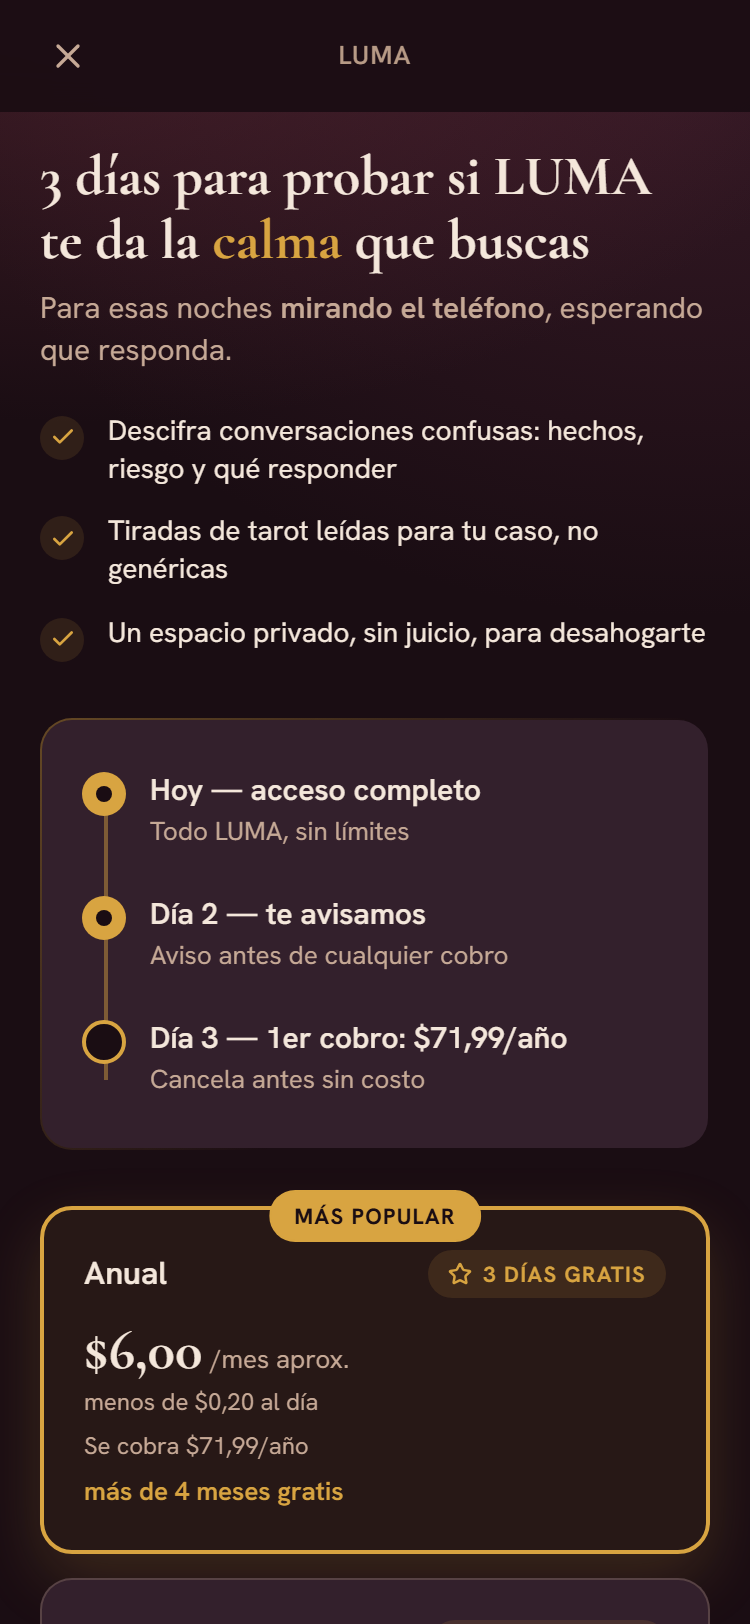
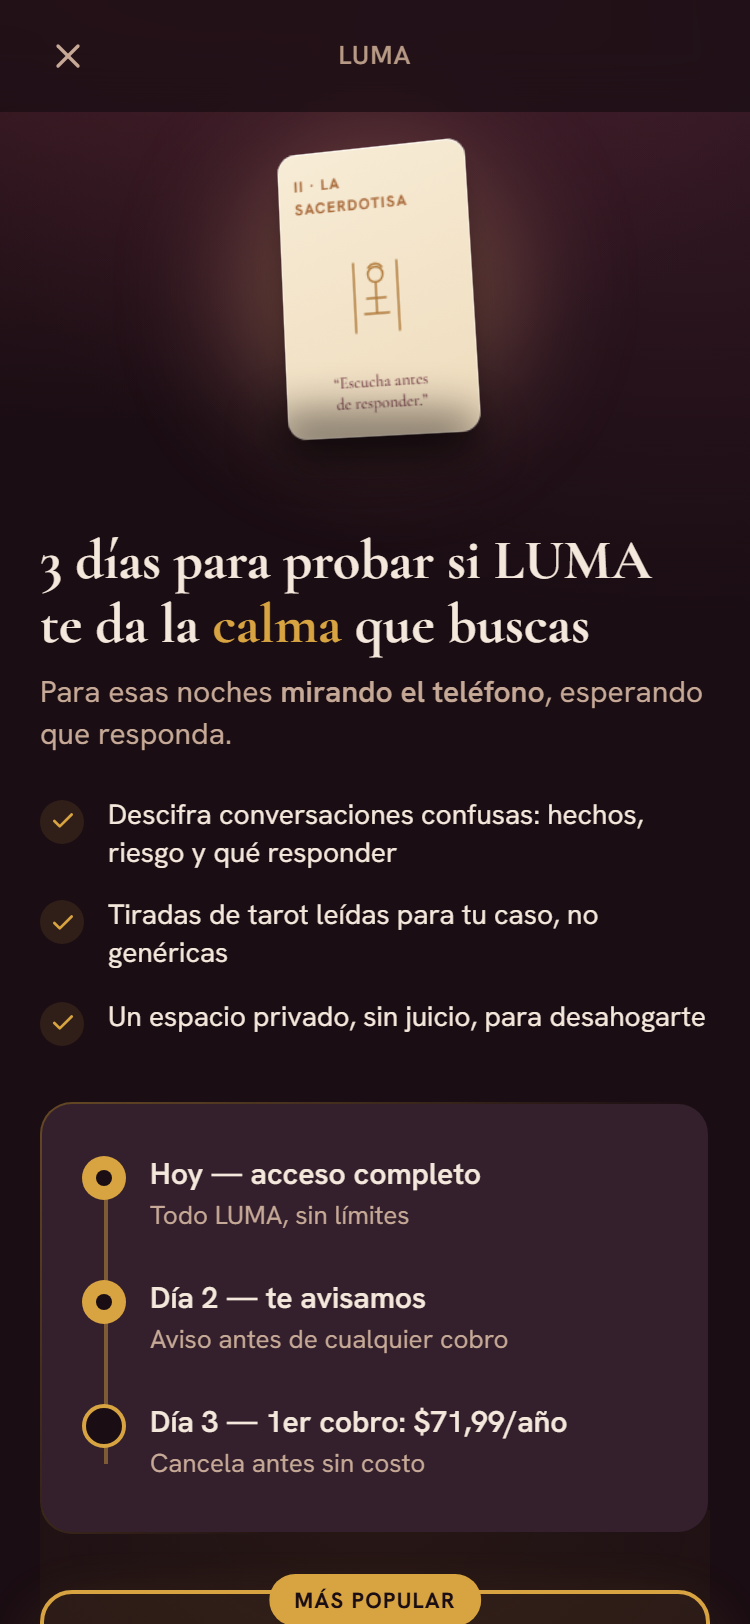
fix(sesion-4): paywall — corrige defectos de la 3a revision del revisor-visual
- Agrega la carta de tarot (dispositivo ownable de FICHA-ARTE) arriba del
  titular, a escala reducida y sin animacion de entrada — el mismo motivo
  que ya aparece en Hero/Casos/PlanListo, ausente hasta ahora en el
  paywall (defecto de identidad senalado en 2 rondas)
- Agrega un 2o resplandor amber detras de las plan cards: la pagina es
  larga (2384px+) y el bloom fijo del body (cerca del header) no
  alcanzaba a dar profundidad a la mitad inferior
- Suaviza la costura header/body: bg-[var(--bg)]/95 -> /75 + blur mas
  fuerte, para que el borde del sticky no corte tan duro contra el bloom

No se modifico el vacio de la pantalla "confirmado" (defecto #1 de esta
ronda): es contenido corto centrado en un viewport de 812px, mismo patron
ya evaluado y aceptado como normal en el onboarding — no es un artefacto
de captura esta vez (esa pantalla no usa fullPage).

diff --git a/app/paywall/page.tsx b/app/paywall/page.tsx
@@ -23,6 +23,7 @@ import { TimelineTrial } from '@/components/paywall/Timeline';
 import { PlanCards, type PlanPaywall } from '@/components/paywall/PlanCards';
 import { leerRespuestas } from '@/lib/almacenamiento-onboarding';
 import { beneficiosPlan, contarRespuestas, type Respuestas } from '@/app/onboarding/flujo';
+import { CartaSacerdotisa } from '@/components/app/HeroDemoLuma';
 
 const TRIAL_DIAS = 3;
 
@@ -107,7 +108,7 @@ export default function PaywallLuma() {
   return (
     <div className="flex min-h-dvh flex-col [font-family:var(--font-body)]">
       {/* Header: X (44px, sale a /) + marca — nunca oculta/retardada (C5) */}
-      <div className="sticky top-0 z-20 flex h-14 items-center justify-between bg-[var(--bg)]/95 px-3 backdrop-blur-sm">
+      <div className="sticky top-0 z-20 flex h-14 items-center justify-between bg-[var(--bg)]/75 px-3 backdrop-blur-md">
         <a
           href="/"
           aria-label="Cerrar"
@@ -120,11 +121,25 @@ export default function PaywallLuma() {
       </div>
 
       <div className="mx-auto flex w-full max-w-[480px] flex-1 flex-col px-5 pb-10 pt-4">
-        {/* Headline — fórmula única de 52 §4: LUMA + "calma" (deseo tangible #1 de FICHA-AVATAR) */}
+        {/* Dispositivo ownable de FICHA-ARTE — repite el motivo del funnel (Hero,
+            Casos, PlanListo), en tamaño reducido y sin animación de entrada. */}
         <motion.div
           initial={{ opacity: 0, y: reduce ? 0 : 10 }}
           animate={{ opacity: 1, y: 0 }}
           transition={{ duration: reduce ? 0.2 : 0.4, ease: [0.16, 1, 0.3, 1] }}
+          className="flex justify-center"
+        >
+          <div className="scale-[0.7] [transform-origin:top]">
+            <CartaSacerdotisa animar={false} />
+          </div>
+        </motion.div>
+
+        {/* Headline — fórmula única de 52 §4: LUMA + "calma" (deseo tangible #1 de FICHA-AVATAR) */}
+        <motion.div
+          initial={{ opacity: 0, y: reduce ? 0 : 10 }}
+          animate={{ opacity: 1, y: 0 }}
+          transition={{ duration: reduce ? 0.2 : 0.4, delay: 0.05, ease: [0.16, 1, 0.3, 1] }}
+          className="-mt-4"
         >
           <h1 className="text-balance text-[28px] font-bold leading-[1.15] text-[var(--text-primary)] [font-family:var(--font-display)]">
             <MarkedCopy text={`${TRIAL_DIAS} días para probar si LUMA te da la [acento]calma[/acento] que buscas`} />
@@ -174,8 +189,19 @@ export default function PaywallLuma() {
           initial={{ opacity: 0, y: reduce ? 0 : 10 }}
           animate={{ opacity: 1, y: 0 }}
           transition={{ duration: reduce ? 0.2 : 0.4, delay: 0.15, ease: [0.16, 1, 0.3, 1] }}
-          className="mt-7"
+          className="relative mt-7"
         >
+          {/* 2º resplandor: la página es larga y el bloom del body (fijo, cerca
+              del header) no llega hasta aquí — sin esto la mitad inferior se
+              siente plana. Mismo lenguaje de "luz de vela" de FICHA-ARTE. */}
+          <div
+            aria-hidden="true"
+            className="pointer-events-none absolute inset-x-0 -top-10 -z-10 h-[420px]"
+            style={{
+              background:
+                'radial-gradient(480px 300px at 50% 0%, color-mix(in oklab, var(--accent) 7%, transparent), transparent 70%)',
+            }}
+          />
           <PlanCards
             anual={PLAN_ANUAL}
             mensual={PLAN_MENSUAL}
